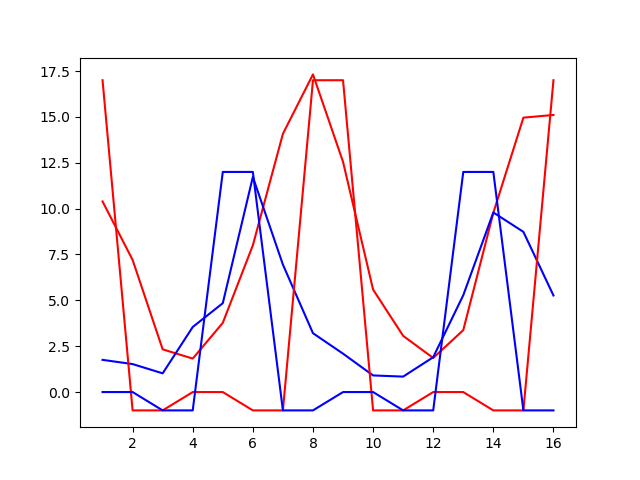
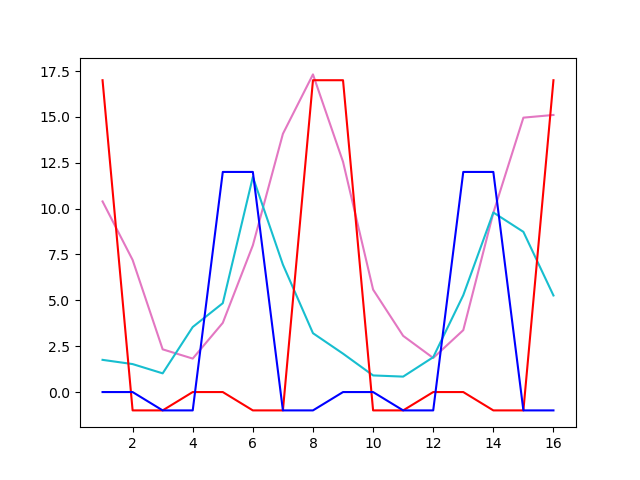
better graph cry-per

diff --git a/SimpleCryPerTest2.py b/SimpleCryPerTest2.py
@@ -82,8 +82,8 @@ a_model = all_models[0]
 print(a_model.LC.number)
 
 
-plt.plot(time,cry1,c="r")
-plt.plot(time,per1,c="b")
+plt.plot(time,cry1,c='tab:pink')
+plt.plot(time,per1,c='tab:cyan')
 
 
 cry_act, per_act, model_cost = cost.costFunction(a_model)
